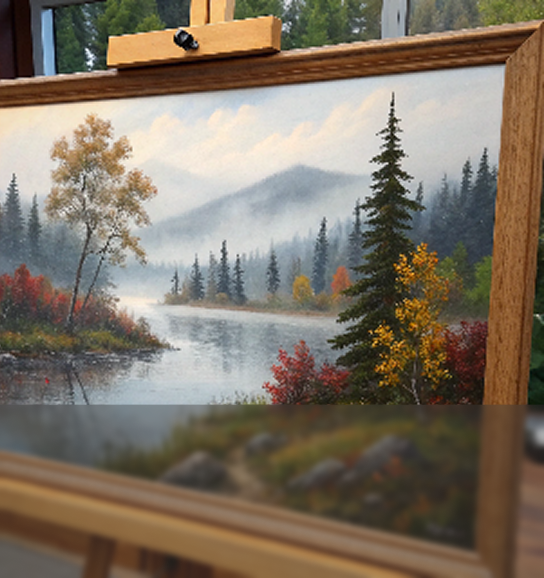
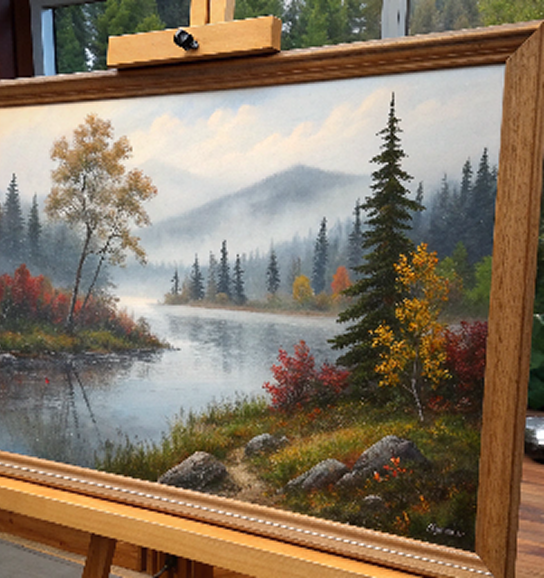
На экране "Выставки" сделан предпросмотр фотографий

Changed region(s): [[0.0, 0.6851, 1.0, 1.0]]

diff --git a/lib/exhibitions.dart b/lib/exhibitions.dart
@@ -17,9 +17,7 @@ class Exhibitions extends StatefulWidget {
   State<Exhibitions> createState() => _ExhibitionsState();
 }
 
-class _ExhibitionsState extends State<Exhibitions>
-    with SingleTickerProviderStateMixin {
-
+class _ExhibitionsState extends State<Exhibitions> with SingleTickerProviderStateMixin {
   @override
   Widget build(BuildContext context) {
     return Scaffold(
@@ -67,7 +65,7 @@ class _ExhibitionsState extends State<Exhibitions>
                         ),
                       ],
                     ),
-                    SocialNetworks()
+                    SocialNetworks(),
                   ],
                 ),
               ),
@@ -169,32 +167,37 @@ class _ExhibitionsState extends State<Exhibitions>
                       padding: const EdgeInsets.all(6),
                       child: GestureDetector(
                         onTap: () {
-                          Navigator.of(context).push(MaterialPageRoute(builder: (context) => ExhibitionPage()));
+                          openPhotoViewGallery(context: context, imageList: exhibitionList.sublist(0, exhibitionList.length - 2), titleList: titleExhibitionList.sublist(0, titleExhibitionList.length - 2), initialIndex: index);
                         },
-                        child: Container(
-                          decoration: BoxDecoration(
-                            image: DecorationImage(image: AssetImage(exhibitionList[index]), fit: BoxFit.cover),
-                          ),
-                          child: Stack(
-                            children: [
-                              Positioned(
-                                right: 8,
-                                bottom: 12,
-                                left: 8,
-                                child: SizedBox(
-                                  width: 90,
-                                  child: Padding(
-                                    padding: const EdgeInsets.all(8.0),
-                                    child: Text(
-                                      titleExhibitionList[index],
-                                      overflow: TextOverflow.ellipsis,
-                                      style: GoogleFonts.inter(fontSize: 9, color: white),
-                                    ),
-                                  ),
-                                ),
+                        onLongPress: () {
+                          Navigator.of(context).pushReplacement(MaterialPageRoute(builder: (context) => ExhibitionPage()));
+                        },
+                        child: Stack(
+                          children: [
+                            Container(
+                              decoration: BoxDecoration(
+                                image: DecorationImage(image: AssetImage(exhibitionList[index]), fit: BoxFit.cover),
                               ),
-                            ],
-                          ),
+                              child: Column(
+                                mainAxisAlignment: MainAxisAlignment.end,
+                                children: [
+                                  Stack(
+                                    children: [
+                                      Image.asset('assets/images/blur.png', fit: BoxFit.cover, width: double.infinity),
+                                      Padding(
+                                        padding: const EdgeInsets.all(8),
+                                        child: Text(
+                                          titleExhibitionList[index],
+                                          overflow: TextOverflow.ellipsis,
+                                          style: GoogleFonts.inter(fontSize: 8.4, color: white),
+                                        ),
+                                      ),
+                                    ],
+                                  ),
+                                ],
+                              ),
+                            ),
+                          ],
                         ),
                       ),
                     );
@@ -228,32 +231,37 @@ class _ExhibitionsState extends State<Exhibitions>
                       padding: const EdgeInsets.all(6),
                       child: GestureDetector(
                         onTap: () {
-                          Navigator.of(context).push(MaterialPageRoute(builder: (context) => ExhibitionPage()));
+                          openPhotoViewGallery(context: context, imageList: futureExhibitionList, titleList: titleFutureExhibitionList, initialIndex: index);
                         },
-                        child: Container(
-                          decoration: BoxDecoration(
-                            image: DecorationImage(image: AssetImage(futureExhibitionList[index]), fit: BoxFit.cover),
-                          ),
-                          child: Stack(
-                            children: [
-                              Positioned(
-                                right: 8,
-                                bottom: 12,
-                                left: 8,
-                                child: SizedBox(
-                                  width: 120,
-                                  child: Padding(
-                                    padding: const EdgeInsets.all(8.0),
-                                    child: Text(
-                                      titleFutureExhibitionList[index],
-                                      overflow: TextOverflow.ellipsis,
-                                      style: GoogleFonts.inter(fontSize: 9, color: white),
-                                    ),
-                                  ),
-                                ),
+                        onLongPress: () {
+                          Navigator.of(context).pushReplacement(MaterialPageRoute(builder: (context) => ExhibitionPage()));
+                        },
+                        child: Stack(
+                          children: [
+                            Container(
+                              decoration: BoxDecoration(
+                                image: DecorationImage(image: AssetImage(futureExhibitionList[index]), fit: BoxFit.cover),
                               ),
-                            ],
-                          ),
+                              child: Column(
+                                mainAxisAlignment: MainAxisAlignment.end,
+                                children: [
+                                  Stack(
+                                    children: [
+                                      Image.asset('assets/images/blur.png', fit: BoxFit.cover, width: double.infinity),
+                                      Padding(
+                                        padding: const EdgeInsets.all(8),
+                                        child: Text(
+                                          titleFutureExhibitionList[index],
+                                          overflow: TextOverflow.ellipsis,
+                                          style: GoogleFonts.inter(fontSize: 8.4, color: white),
+                                        ),
+                                      ),
+                                    ],
+                                  ),
+                                ],
+                              ),
+                            ),
+                          ],
                         ),
                       ),
                     );
@@ -285,26 +293,35 @@ class _ExhibitionsState extends State<Exhibitions>
                   itemBuilder: (context, index) {
                     return Padding(
                       padding: const EdgeInsets.all(6),
-                      child: Container(
-                        decoration: BoxDecoration(
-                          image: DecorationImage(image: AssetImage(futureExhibition2List[index]), fit: BoxFit.cover),
-                        ),
+                      child: GestureDetector(
+                        onTap: () {
+                          openPhotoViewGallery(context: context, imageList: futureExhibition2List, titleList: titleFutureExhibition2List, initialIndex: index);
+                        },
+                        onLongPress: () {
+                        },
                         child: Stack(
                           children: [
-                            Positioned(
-                              right: 8,
-                              bottom: 12,
-                              left: 8,
-                              child: SizedBox(
-                                width: 100,
-                                child: Padding(
-                                  padding: const EdgeInsets.all(8.0),
-                                  child: Text(
-                                    titleFutureExhibition2List[index],
-                                    overflow: TextOverflow.ellipsis,
-                                    style: GoogleFonts.inter(fontSize: 9, color: white),
+                            Container(
+                              decoration: BoxDecoration(
+                                image: DecorationImage(image: AssetImage(futureExhibition2List[index]), fit: BoxFit.cover),
+                              ),
+                              child: Column(
+                                mainAxisAlignment: MainAxisAlignment.end,
+                                children: [
+                                  Stack(
+                                    children: [
+                                      Image.asset('assets/images/blur.png', fit: BoxFit.cover, width: double.infinity),
+                                      Padding(
+                                        padding: const EdgeInsets.all(8),
+                                        child: Text(
+                                          titleFutureExhibition2List[index],
+                                          overflow: TextOverflow.ellipsis,
+                                          style: GoogleFonts.inter(fontSize: 8.4, color: white),
+                                        ),
+                                      ),
+                                    ],
                                   ),
-                                ),
+                                ],
                               ),
                             ),
                           ],
